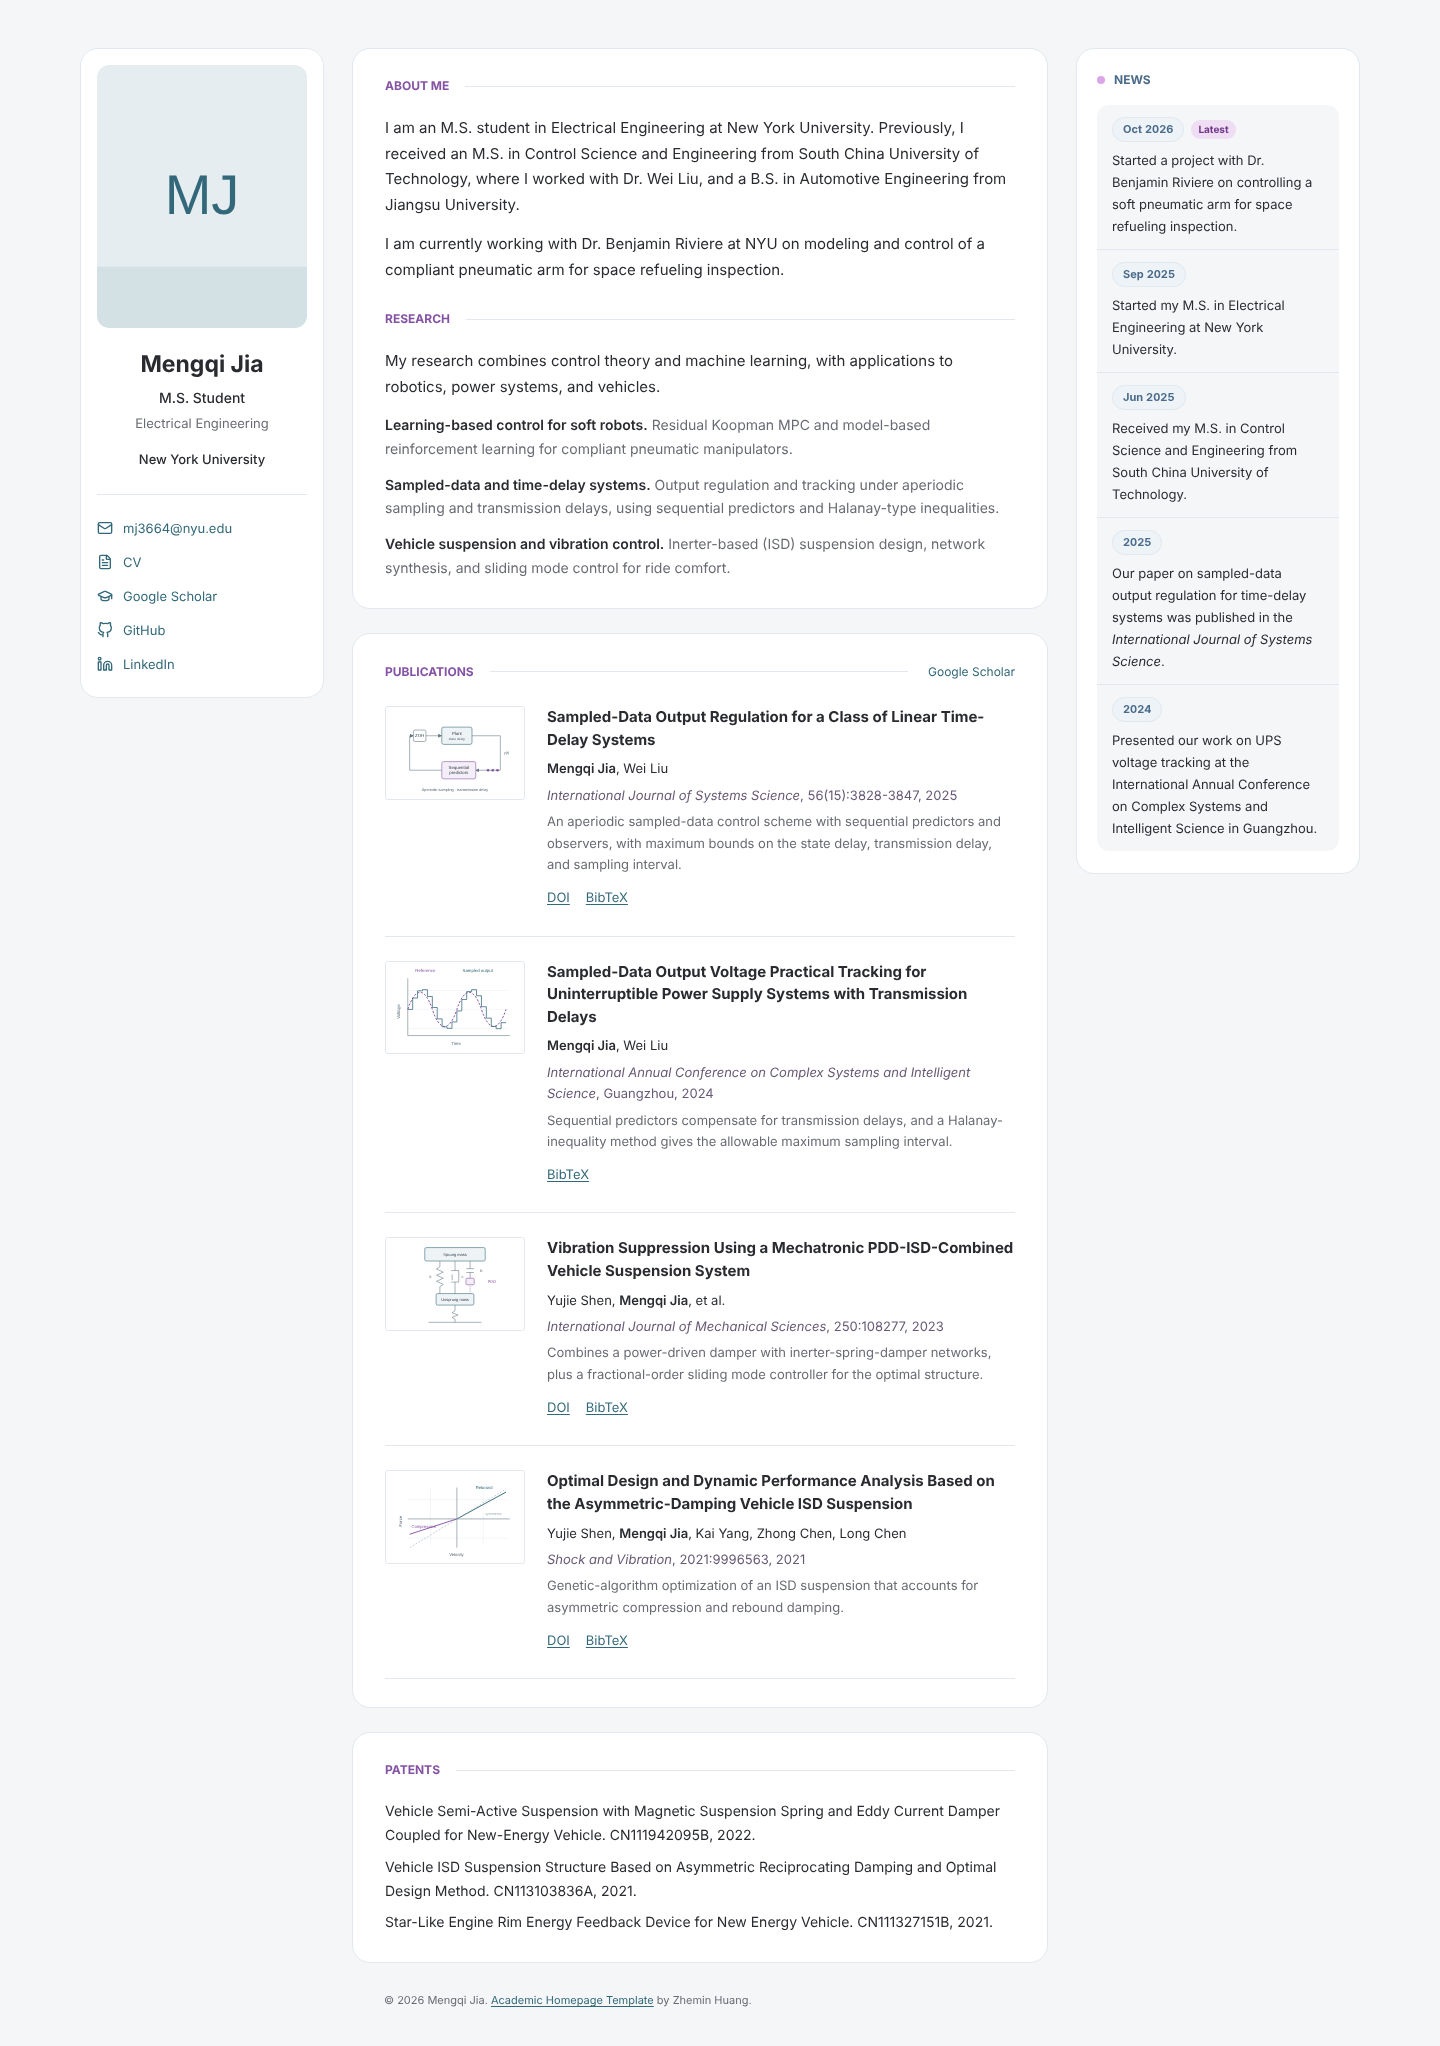
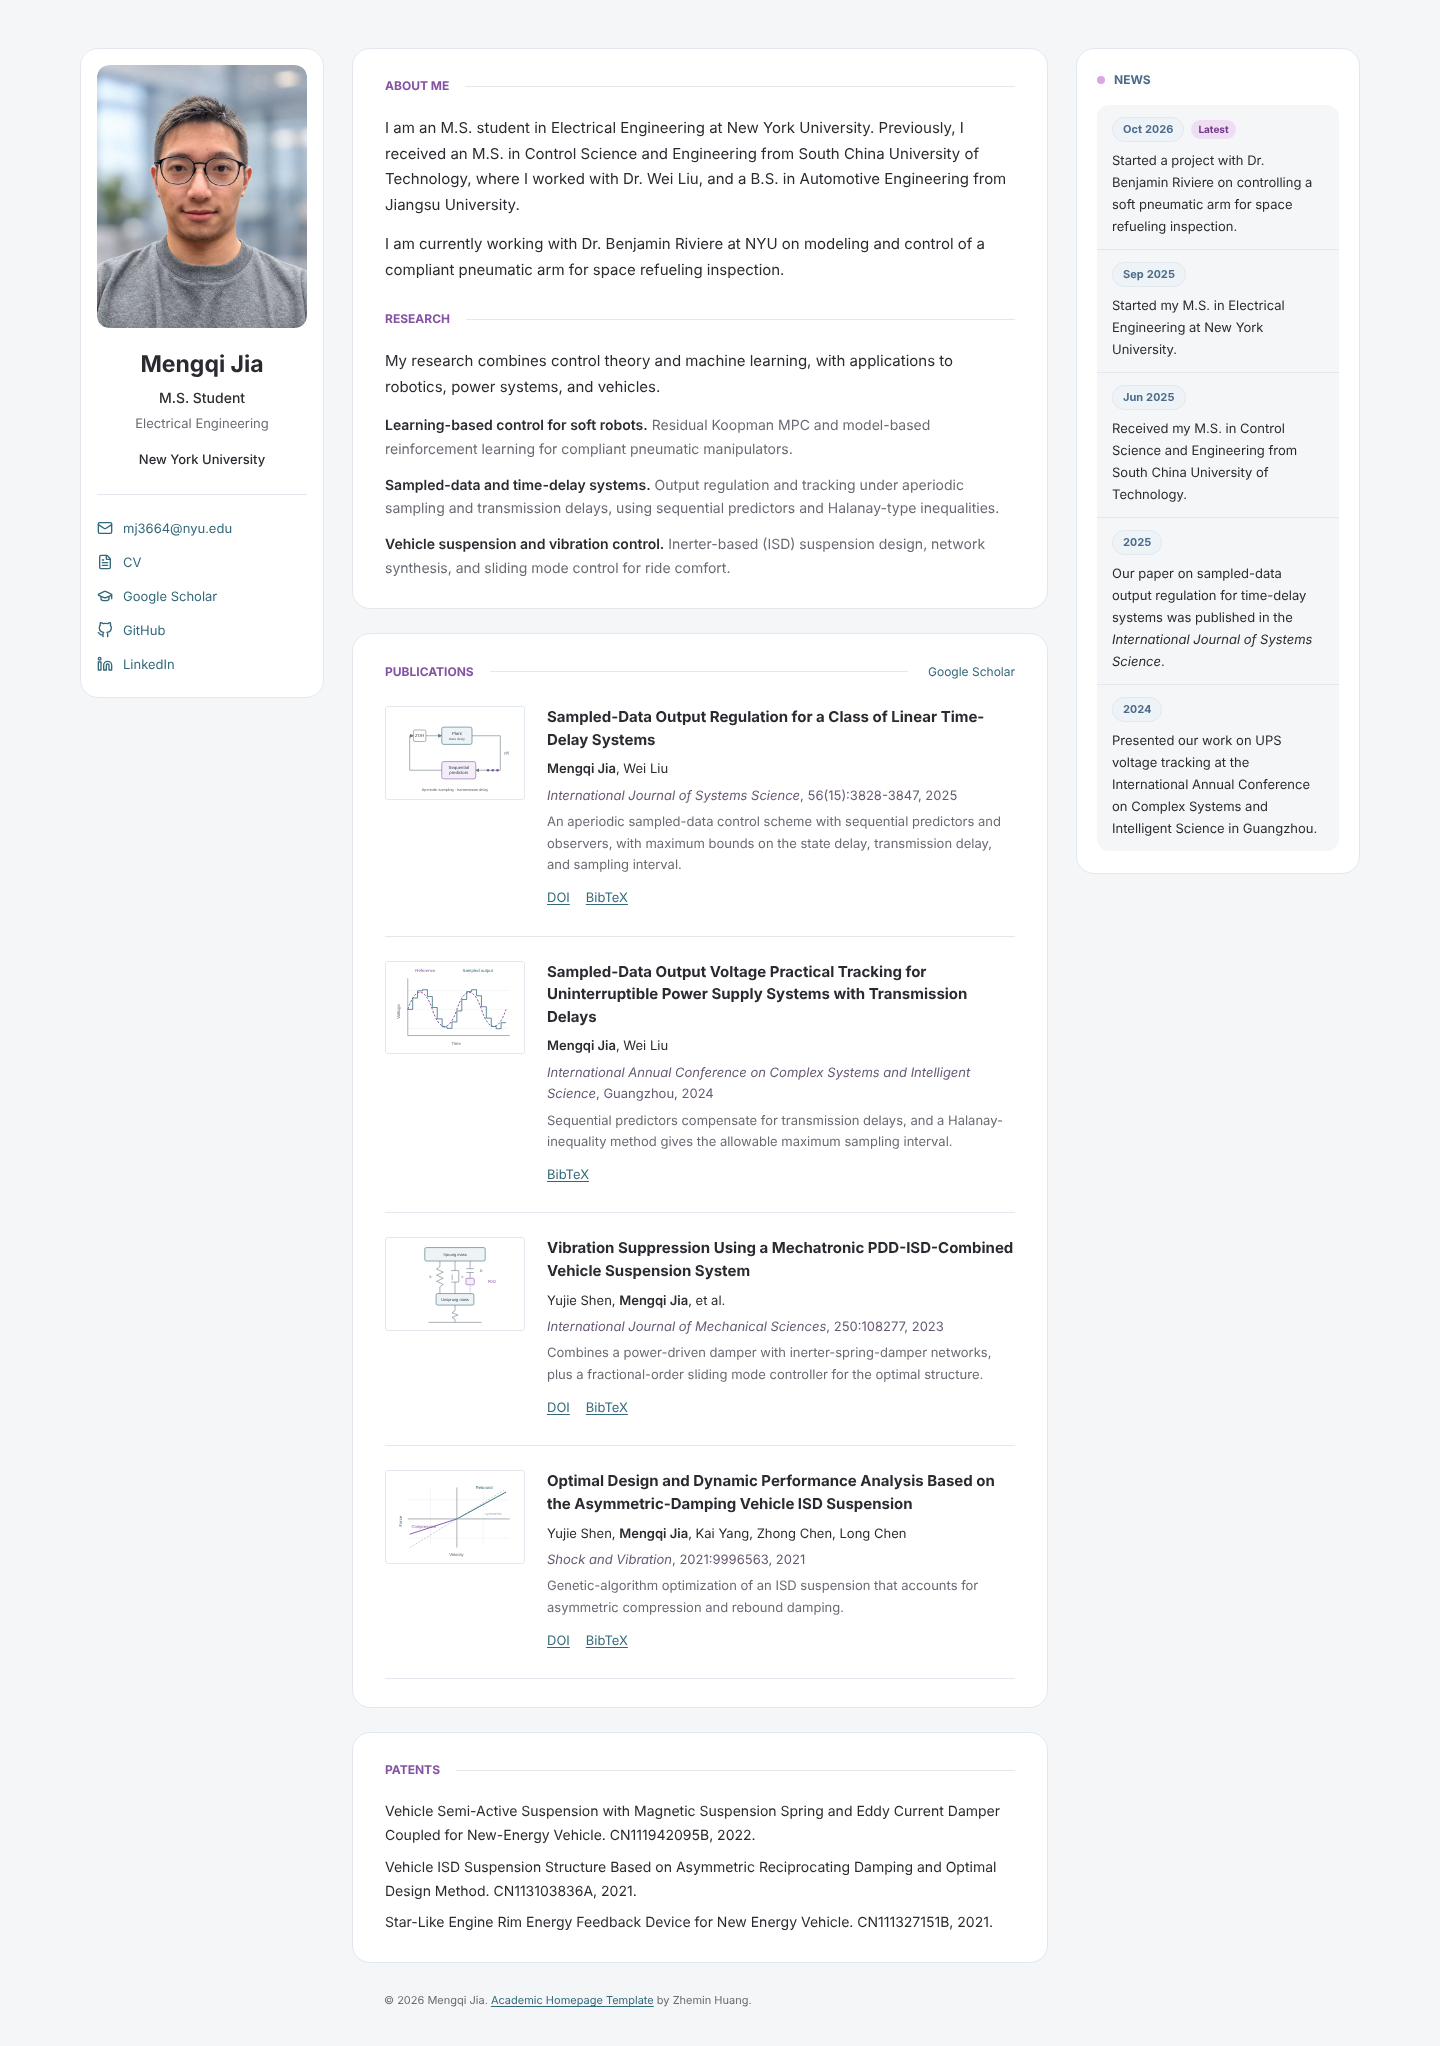
Add profile photo
Claude-Session: https://claude.ai/code/session_01SWPavJZp65t57UTzzmps4M

Changed region(s): [[0.0625, 0.0308, 0.2188, 0.1848]]

diff --git a/index.html b/index.html
@@ -17,7 +17,7 @@
       <header class="profile" aria-labelledby="page-title">
         <div class="profile-inner">
           <figure class="portrait">
-            <img src="assets/images/avatar.svg" alt="Mengqi Jia monogram" width="480" height="600" fetchpriority="high">
+            <img src="assets/images/portrait.jpg" alt="Portrait of Mengqi Jia" width="640" height="800" fetchpriority="high">
           </figure>
           <div class="profile-identity">
             <h1 id="page-title">Mengqi Jia</h1>
